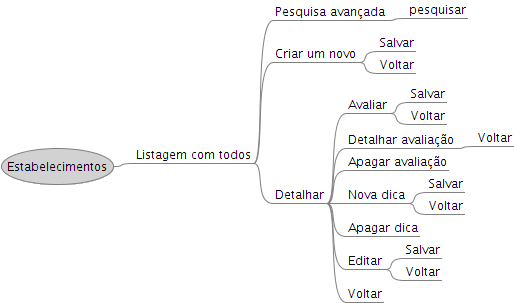
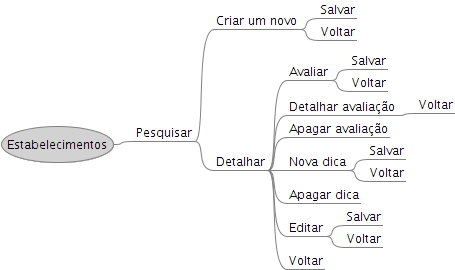
Ajustes na apresentacao de dica nos detalhamentos.

Changed region(s): [[0.0, 0.0, 1.0, 1.0], [0.4308, 0.1185, 0.4615, 0.2963], [0.4308, 0.3259, 0.4615, 0.4148]]

diff --git a/documentacao/DiagramasNavegacao/Manter estabelecimento/manterEstabelecimento.mm b/documentacao/DiagramasNavegacao/Manter estabelecimento/manterEstabelecimento.mm
@@ -1,10 +1,7 @@
 <map version="0.8.1">
 <!-- To view this file, download free mind mapping software FreeMind from http://freemind.sourceforge.net -->
 <node CREATED="1253098265544" ID="Freemind_Link_442149047" MODIFIED="1253098276729" TEXT="Estabelecimentos">
-<node CREATED="1253101299794" ID="Freemind_Link_1567875307" MODIFIED="1253101303535" POSITION="right" TEXT="Listagem com todos">
-<node CREATED="1253098287580" ID="Freemind_Link_1489013925" MODIFIED="1253098299513" TEXT="Pesquisa avan&#xe7;ada" VSHIFT="-9">
-<node CREATED="1253098329671" ID="Freemind_Link_1149150902" MODIFIED="1253098331277" TEXT="pesquisar"/>
-</node>
+<node CREATED="1253101299794" ID="Freemind_Link_1567875307" MODIFIED="1253711987810" POSITION="right" TEXT="Pesquisar">
 <node CREATED="1253098283458" ID="_" MODIFIED="1253098286430" TEXT="Criar um novo">
 <node CREATED="1253098341819" ID="Freemind_Link_500264282" MODIFIED="1253098343355" TEXT="Salvar"/>
 <node CREATED="1253098344285" ID="Freemind_Link_1013722051" MODIFIED="1253098345192" TEXT="Voltar"/>
